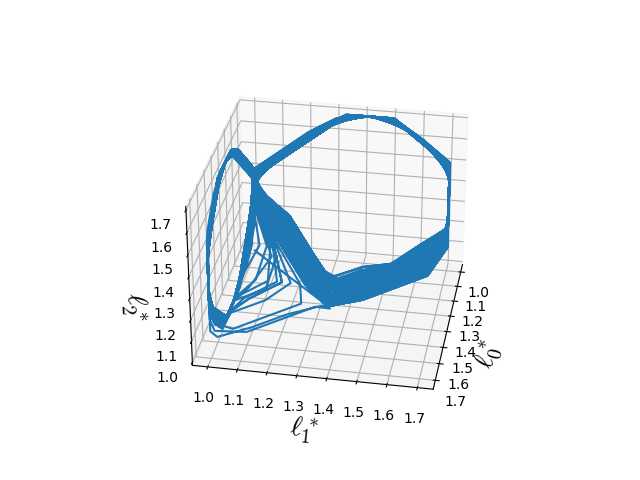
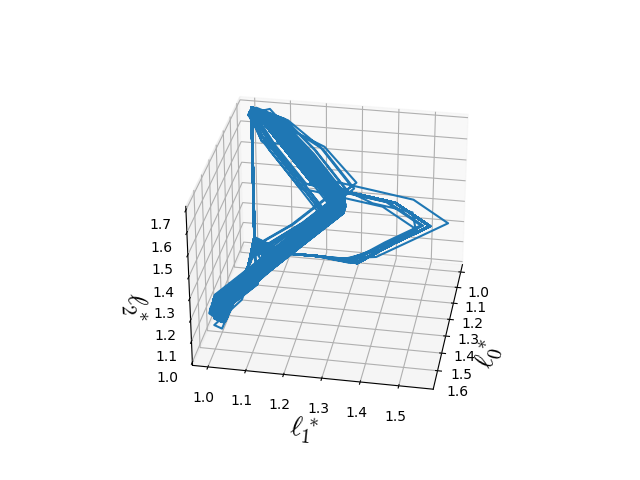
commit

Changed region(s): [[0.2812, 0.2188, 0.75, 0.8438], [0.3438, 0.8125, 0.6562, 0.875]]

diff --git a/sim/analysis/arm_length/arm_length_space_triangle.py b/sim/analysis/arm_length/arm_length_space_triangle.py
@@ -16,7 +16,7 @@ def main():
 
     # intervals = np.arange(0.1, 1.0, 0.2)
     # lengths = np.arange(1.1, 2.0, 0.2)
-    intervals = [0.3]
+    intervals = [0.1]
     lengths = [1.7]
 
     for interval in tqdm(intervals):
